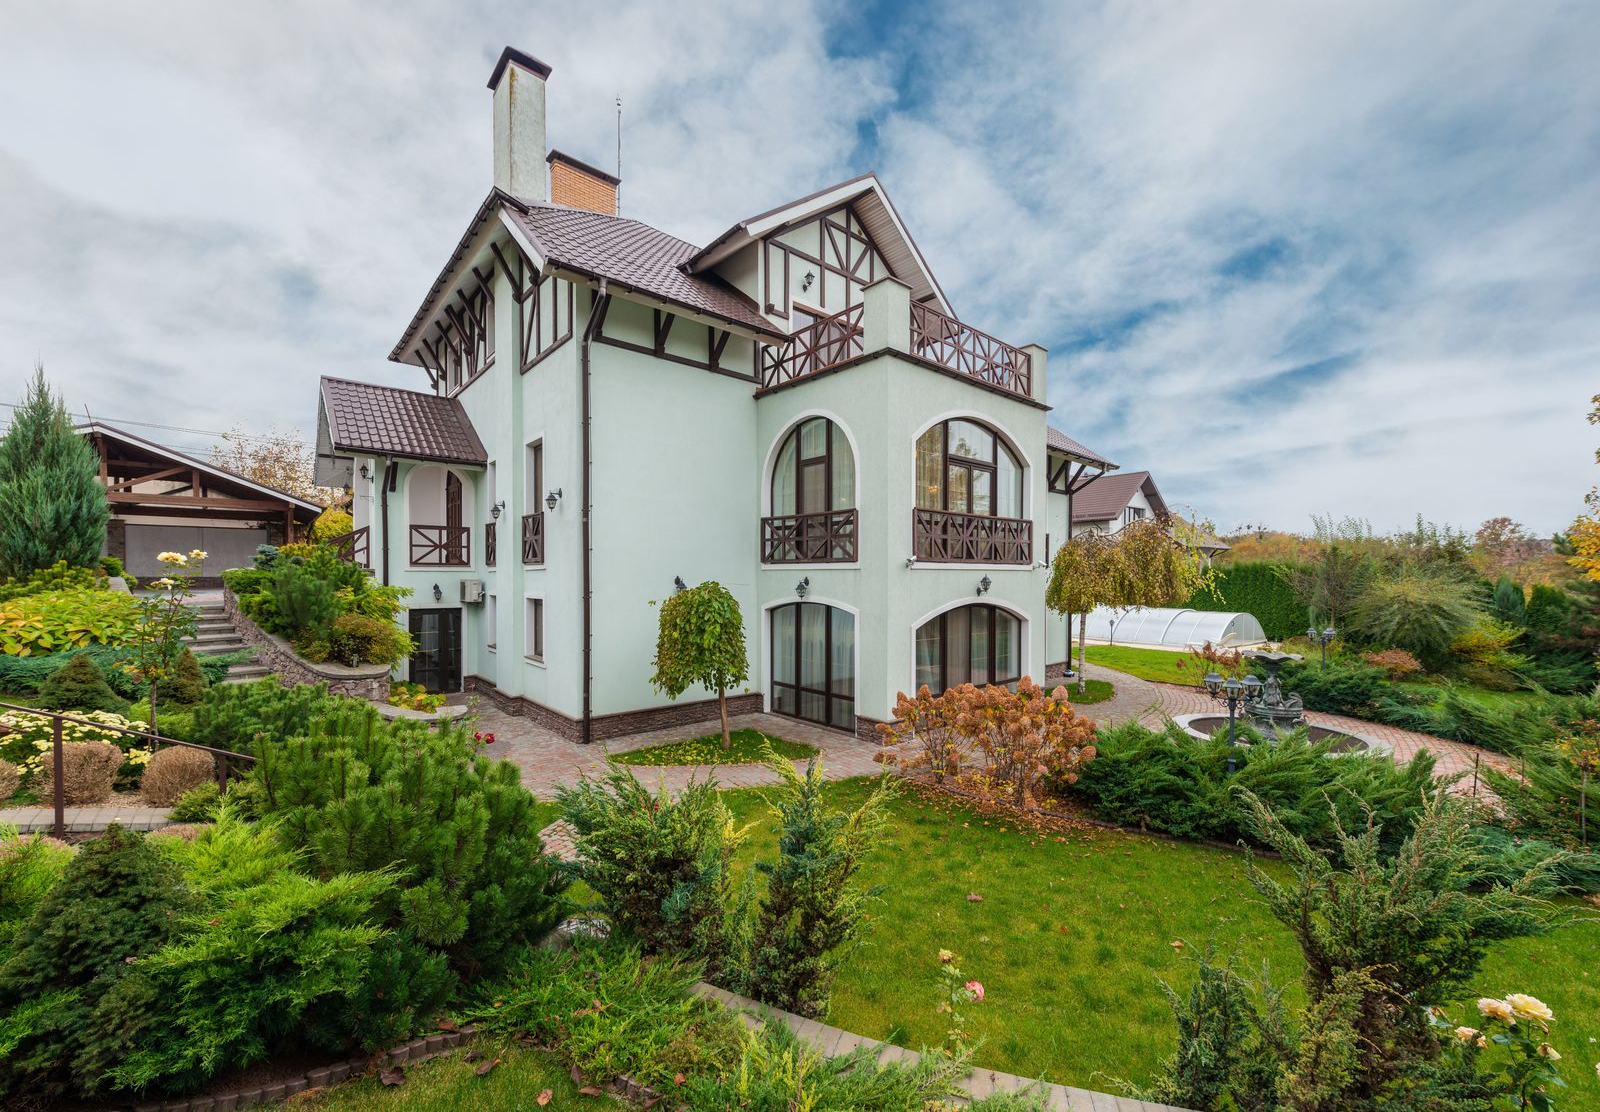
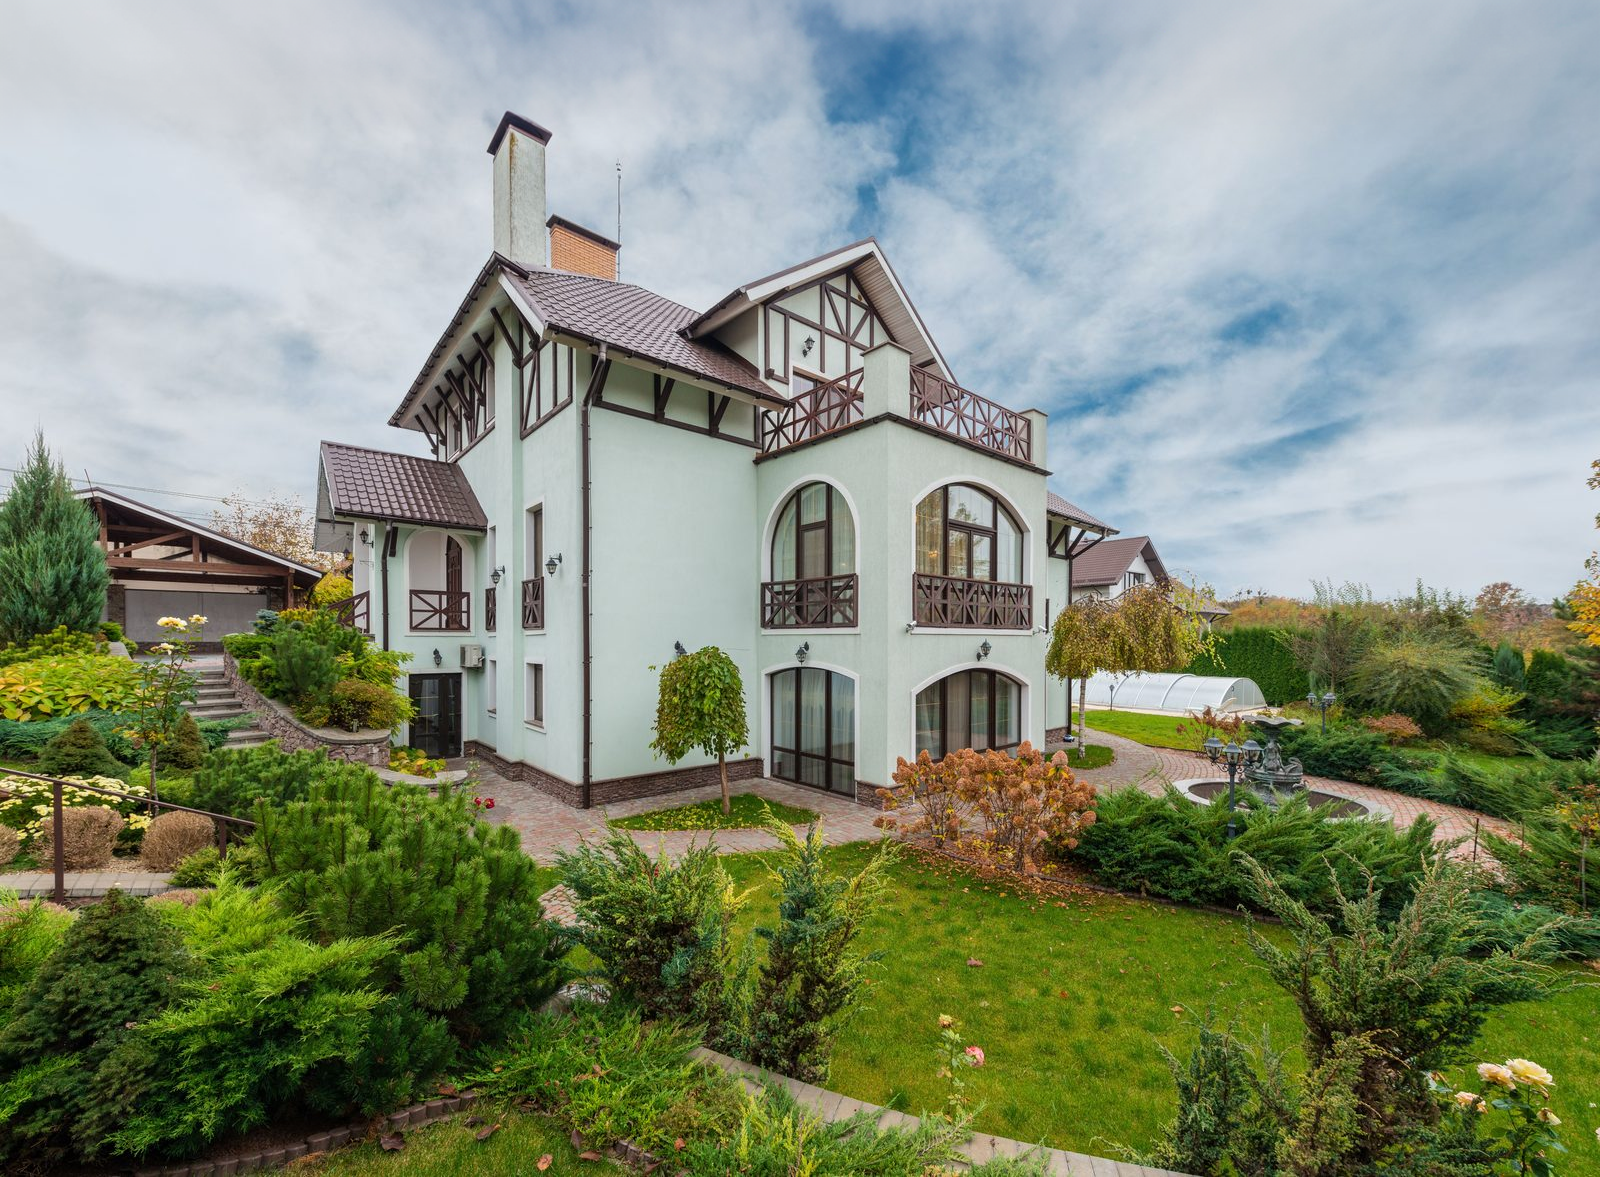
Extend the center page with the updated gallery and day plan.
The photo block is taller, amenity labels are smaller, and the schedule, staff, and feature chips follow the finished frame.

diff --git a/src/components/center-detail.tsx b/src/components/center-detail.tsx
@@ -1,11 +1,10 @@
+"use client";
+
+import { useState } from "react";
 import { CallRequestButton } from "@/components/call-request-modal";
 
 const facts = [
-  {
-    label: "Направления:",
-    value: "алкоголизм, наркомания",
-    extra: "+2",
-  },
+  { label: "Направления:", value: "алкоголизм, наркомания", extra: "+2" },
   { label: "Формат:", value: "с проживанием" },
   { label: "Программа:", value: "АН, АА, АИ" },
   { label: "Курс:", value: "от 3 до 12 месяцев" },
@@ -25,61 +24,97 @@ const amenities = [
   ],
 ];
 
+const schedule = [
+  ["07:00–07:30", "Подъём, утренняя гигиена"],
+  ["07:30–08:00", "Зарядка"],
+  ["08:00–08:30", "Завтрак"],
+  ["08:30–09:00", "Утренняя группа, планирование дня"],
+  ["09:00–10:30", "Групповая психотерапия"],
+  ["10:30–11:00", "Перерыв"],
+  ["11:00–12:30", "Лекции и образовательные занятия"],
+  ["12:30–13:30", "Обед, свободное время"],
+  ["13:30–15:00", "Индивидуальная работа с психологом"],
+  ["15:00–16:30", "Арт-терапия и практические занятия"],
+  ["16:30–18:00", "Спорт, прогулки"],
+  ["18:00–19:00", "Ужин"],
+  ["19:00–20:30", "Группы взаимопомощи"],
+  ["20:30–21:30", "Личное время"],
+  ["21:30–22:00", "Вечерняя рефлексия, подведение итогов"],
+  ["22:30", "Отбой"],
+];
+
+const staff = [
+  ["5", "Дежурных консультантов"],
+  ["2", "Психиатра - нарколога"],
+  ["3", "Психолога"],
+];
+
+const features = [
+  "Индивидуальная программа",
+  "Работа с двойным диагнозом",
+  "Семейная терапия",
+  "Постлечебная программа",
+];
+
 export function CenterDetail() {
+  const [scheduleOpen, setScheduleOpen] = useState(false);
+
   return (
     <div className="mx-auto mt-[58px] w-[1200px] pb-[160px]">
-      <div className="relative h-[400px] overflow-hidden rounded-[23px]">
-        <div className="absolute top-0 left-0 h-[400px] w-[598px] overflow-hidden bg-[#cfcece]">
-          <div className="absolute top-0 left-[calc(50%-13.5px)] h-[528px] w-[719px] -translate-x-1/2">
+      <div className="relative h-[480px] overflow-hidden rounded-[22px] bg-white">
+        <div className="absolute top-0 left-0 h-[480px] w-[598px] overflow-hidden">
+          <div className="absolute top-[-10px] left-[-87px] h-[579px] w-[811px]">
             <img
               alt="Дом реабилитационного центра"
               src="/centers/himki/house.png"
-              className="absolute top-[0.02%] left-[-2.82%] h-[99.98%] w-[105.64%] max-w-none"
+              className="absolute top-[0.04%] left-0 h-[103.04%] w-full max-w-none"
             />
           </div>
         </div>
-        <div className="absolute top-0 right-[301px] h-[198px] w-[297px] overflow-hidden bg-[#cfcece]">
+        <div className="absolute top-0 right-[301px] h-[238px] w-[297px] overflow-hidden bg-[#ebebeb]">
           <img
             alt="Спальня"
             src="/centers/himki/yoga.png"
-            width={303}
-            height={227}
-            className="absolute top-0 left-0 h-[227px] w-[303px] max-w-none object-cover"
+            width={329}
+            height={246}
+            className="absolute top-0 left-[-13px] h-[246px] w-[329px] max-w-none object-cover"
           />
         </div>
-        <div className="absolute top-0 right-0 h-[198px] w-[297px] overflow-hidden bg-[#cfcece]">
+        <div className="absolute top-0 right-0 h-[238px] w-[297px] overflow-hidden bg-[#ebebeb]">
           <img
             alt="Бассейн"
             src="/centers/himki/bedroom.png"
-            width={339}
-            height={254}
-            className="absolute top-[-26px] left-0 h-[254px] w-[339px] max-w-none object-cover"
+            width={357}
+            height={268}
+            className="absolute top-[-23px] left-[-11px] h-[268px] w-[357px] max-w-none object-cover"
           />
         </div>
-        <div className="absolute right-[301px] bottom-0 h-[198px] w-[297px] overflow-hidden bg-[#cfcece]">
+        <div className="absolute right-[301px] bottom-0 h-[238px] w-[297px] overflow-hidden bg-[#ebebeb]">
           <img
             alt="Зал для занятий"
             src="/centers/himki/pool.png"
-            width={301}
-            height={201}
-            className="absolute top-0 left-0 h-[201px] w-[301px] max-w-none object-cover"
+            width={371}
+            height={248}
+            className="absolute top-0 left-[-6px] h-[248px] w-[371px] max-w-none object-cover"
           />
         </div>
-        <div className="absolute right-0 bottom-0 h-[198px] w-[297px] overflow-hidden bg-[#cfcece]">
+        <div className="absolute right-0 bottom-0 h-[238px] w-[297px] overflow-hidden bg-[#ebebeb]">
           <img
             alt=""
-            src="/centers/himki/kitchen.png"
-            width={301}
-            height={200}
-            className="absolute top-0 left-0 h-[200px] w-[301px] max-w-none object-cover"
+            src="/centers/himki/dining.jpg"
+            width={368}
+            height={246}
+            className="absolute top-[-8px] left-[-36px] h-[246px] w-[368px] max-w-none object-cover blur-[1px]"
           />
-          <div className="absolute inset-0 bg-[rgba(74,74,74,0.38)]" />
-          <p className="absolute top-[85px] left-[81px] text-18 font-medium text-white">+ 8 фотографий</p>
+          <div className="absolute inset-0 bg-[rgba(74,74,74,0.37)]" />
+          <p className="absolute top-[calc(50%-14px)] left-[calc(50%-67.5px)] text-18 font-medium whitespace-nowrap text-white">
+            + 8 фотографий
+          </p>
         </div>
       </div>
 
-      <div className="mt-[34px] flex items-start justify-between">
-        <div className="w-[699px]">
+      <div className="mt-[32px] flex items-start gap-[190px]">
+        <div className="flex w-[612px] flex-col gap-[30px]">
           <div className="flex flex-col gap-[16px] border-b border-[rgba(0,0,0,0.04)] pb-[32px]">
             <div className="flex flex-col gap-[6px]">
               <h1 className="text-28 font-medium">Реабилитационный центр в Химках</h1>
@@ -92,9 +127,9 @@ export function CenterDetail() {
             />
           </div>
 
-          <div className="mt-[33px] flex w-[612px] flex-col gap-[24px]">
+          <div className="flex flex-col gap-[24px] border-b border-[rgba(0,0,0,0.04)] pb-[32px]">
             <div className="flex flex-col gap-[10px]">
-              <h2 className="text-18 font-medium text-black">Про центр</h2>
+              <h2 className="text-24 font-medium">Про центр</h2>
               <div>
                 <p className="text-16">
                   Реабилитационный центр предлагает комплексную программу восстановления для людей, столкнувшихся с
@@ -114,12 +149,9 @@ export function CenterDetail() {
                 {amenities.map((row) => (
                   <div key={row[0].label} className="flex items-center gap-[24px]">
                     {row.map((item, index) => (
-                      <div
-                        key={item.label}
-                        className={`flex items-center gap-[6px] ${index < 2 ? "w-[180px]" : ""}`}
-                      >
+                      <div key={item.label} className={`flex items-center gap-[6px] ${index < 2 ? "w-[180px]" : ""}`}>
                         <img alt="" src={item.icon} width={20} height={20} className="size-[20px] shrink-0" />
-                        <span className="text-18 font-medium whitespace-nowrap">{item.label}</span>
+                        <span className="text-16 font-medium whitespace-nowrap">{item.label}</span>
                       </div>
                     ))}
                   </div>
@@ -133,9 +165,61 @@ export function CenterDetail() {
               </button>
             </div>
           </div>
+
+          <div className="flex flex-col gap-[8px] border-b border-[rgba(0,0,0,0.04)] pb-[32px]">
+            <div className={`relative flex items-start justify-between ${scheduleOpen ? "" : "h-[134px] overflow-hidden"}`}>
+              <div className="flex w-[312px] flex-col gap-[10px]">
+                <h2 className="text-18 font-medium">Расписание дня</h2>
+                <ul className="flex flex-col gap-[8px] text-16">
+                  {schedule.map(([time, event]) => (
+                    <li key={time} className="flex gap-[6px]">
+                      <span className="shrink-0 whitespace-nowrap">{time}</span>
+                      <span>{event}</span>
+                    </li>
+                  ))}
+                </ul>
+              </div>
+              <div className="flex flex-col gap-[10px]">
+                <h2 className="text-18 font-medium">Персонал дома</h2>
+                <ul className="flex flex-col gap-[8px] text-16 whitespace-nowrap">
+                  {staff.map(([count, role]) => (
+                    <li key={role} className="flex gap-[4px]">
+                      <span>{count}</span>
+                      <span>{role}</span>
+                    </li>
+                  ))}
+                </ul>
+              </div>
+              {scheduleOpen ? null : (
+                <img
+                  alt=""
+                  src="/centers/himki/schedule-fade.png"
+                  width={612}
+                  height={34}
+                  className="pointer-events-none absolute bottom-0 left-0 h-[34px] w-[612px] max-w-none"
+                />
+              )}
+            </div>
+            {scheduleOpen ? null : (
+              <button type="button" onClick={() => setScheduleOpen(true)} className="w-fit text-16 font-medium opacity-80">
+                Подробнее
+              </button>
+            )}
+          </div>
+
+          <div className="flex flex-col gap-[10px]">
+            <h2 className="text-18 font-medium">Особенности</h2>
+            <ul className="flex flex-wrap content-center gap-[8px]">
+              {features.map((feature) => (
+                <li key={feature} className="rounded-[8px] bg-[#ebeff8] p-[10px] text-16">
+                  {feature}
+                </li>
+              ))}
+            </ul>
+          </div>
         </div>
 
-        <aside className="flex flex-col gap-[12px] rounded-[19px] border border-[rgba(0,0,0,0.04)] bg-white p-[20px] text-18 whitespace-nowrap">
+        <aside className="flex shrink-0 flex-col gap-[12px] rounded-[19px] border border-[rgba(0,0,0,0.04)] bg-white p-[20px] text-18 whitespace-nowrap">
           {facts.map((fact) => (
             <p key={fact.label} className="flex items-center gap-[6px]">
               <span className="font-medium">{fact.label}</span>
